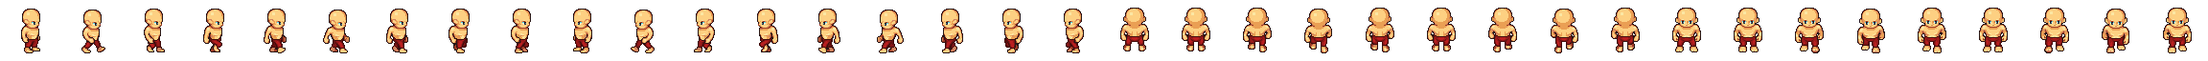
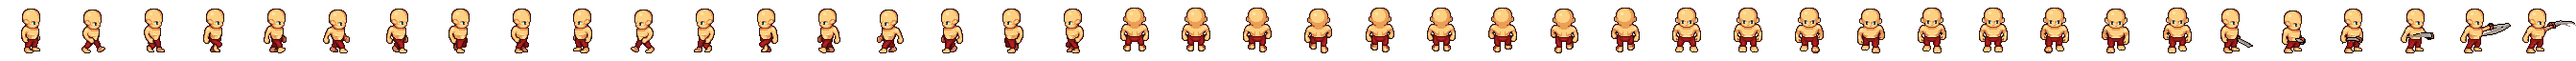
swigning sword... kinda

diff --git a/src/Scenes/GameScene.js b/src/Scenes/GameScene.js
@@ -13,15 +13,16 @@ class GameScene extends Phaser.Scene {
 
     preload (){
         this.load.image('blank-hero-idle', HeroIdle);
-        this.load.spritesheet('blank-hero', HeroSprite, { frameWidth: 64, frameHeight: 64, endFrame: 36 });
+        this.load.spritesheet('blank-hero', HeroSprite, { frameWidth: 64, frameHeight: 64, endFrame: 41 });
     }
 
     create (){
         let animations = [
-            {key: "blank-hero-right", frames: { start: 0, end: 8 }},
-            {key: "blank-hero-left", frames: { start: 9, end: 17 }},
-            {key: "blank-hero-up", frames: { start: 19, end: 26 }},
-            {key: "blank-hero-down", frames: { start: 28, end: 35 }}
+            {key: "blank-hero-right", frames: { start: 0, end: 8 }, repeat:-1},
+            {key: "blank-hero-left", frames: { start: 9, end: 17 }, repeat:-1},
+            {key: "blank-hero-up", frames: { start: 19, end: 26 }, repeat:-1},
+            {key: "blank-hero-down", frames: { start: 28, end: 35 }, repeat:-1},
+            {key: "blank-hero-swing-right", frames: { start: 36, end: 41 }, repeat:1}
         ]
 
         animations.forEach(animation => {
@@ -29,7 +30,7 @@ class GameScene extends Phaser.Scene {
                 key: animation.key,
                 frames: this.anims.generateFrameNumbers('blank-hero', animation.frames),
                 frameRate: 12,
-                repeat: -1
+                repeat: animation.repeat
             });
         });
         
@@ -39,7 +40,8 @@ class GameScene extends Phaser.Scene {
             x: 16 * 6, // 3500, 
             y: this.sys.game.config.height - 48 - 48,
             name: "Chris",
-            primary_class: "cleric"
+            primary_class: "cleric",
+            secondary_class: "warrior"
         });
 
         //this.cameras.main.startFollow(player);
@@ -47,21 +49,19 @@ class GameScene extends Phaser.Scene {
         this.input.mouse.capture = true;
         
         this.keys = {
-          up: this.input.keyboard.addKey(Phaser.Input.Keyboard.KeyCodes.W),
-          left: this.input.keyboard.addKey(Phaser.Input.Keyboard.KeyCodes.A),
-          right: this.input.keyboard.addKey(Phaser.Input.Keyboard.KeyCodes.D),
-          down: this.input.keyboard.addKey(Phaser.Input.Keyboard.KeyCodes.S),
+          space: this.input.keyboard.addKey(Phaser.Input.Keyboard.KeyCodes.SPACE),
         };
     }
 
     update(time, delta) {
-        this.mouse = {
+        let mouse = {
             pointer: this.input.activePointer,
-            left: (this.input.activePointer.buttons === 1 && this.input.activePointer.isDown),
-            middle: (this.input.activePointer.buttons === 4 && this.input.activePointer.isDown),
-            right: (this.input.activePointer.buttons === 2 && this.input.activePointer.isDown),
+            left: { isDown: (this.input.activePointer.buttons === 1 && this.input.activePointer.isDown) },
+            middle: { isDown: (this.input.activePointer.buttons === 4 && this.input.activePointer.isDown) },
+            right: { isDown: (this.input.activePointer.buttons === 2 && this.input.activePointer.isDown) },
         }
-        this.hero.update(this.mouse, time, delta);
+
+        this.hero.update(mouse, this.keys, time, delta);
     }
 
     render() {

diff --git a/src/Entities/Hero.js b/src/Entities/Hero.js
@@ -6,7 +6,6 @@ class Hero extends Phaser.GameObjects.Sprite {
 		super(config.scene, config.x, config.y, config.key);
 		config.scene.physics.world.enable(this);
 		config.scene.add.existing(this);
-		console.log(config)
 
 		this.name = config.name;
 		this.type = this.setClass([config.primary_class, config.secondary_class]);
@@ -19,7 +18,7 @@ class Hero extends Phaser.GameObjects.Sprite {
 		}
 		this.assendClass = this.assendClass.bind(this);
 
-		console.log()
+		console.log(this);
 	}
 
     setClass(types){
@@ -93,15 +92,17 @@ class Hero extends Phaser.GameObjects.Sprite {
   //   	}
   //   }
 
-     update(mouse, time, delta) {
+     update(mouse, keys, time, delta) {
      	let isClose = this.isClose(this, this.pointer_down);
+
+		//console.log(keys.space.isDown)
 
 		if(isClose) {
 			this.body.setVelocity(0)
 			this.anims.stop();
 		}
 
-		if(mouse.left) {
+		if(mouse.left.isDown) {
 			let hero = this;
 			this.pointer_down = {
 				x: mouse.pointer.x,
@@ -112,6 +113,10 @@ class Hero extends Phaser.GameObjects.Sprite {
 				var dir = this.mouseDirection(mouse.pointer);
 				this.anims.play('blank-hero-' + dir, true);
 			}
+		}
+
+		if(keys.space.isDown) {
+			this.anims.play('blank-hero-swing-right', 1);
 		}
     }
 }
